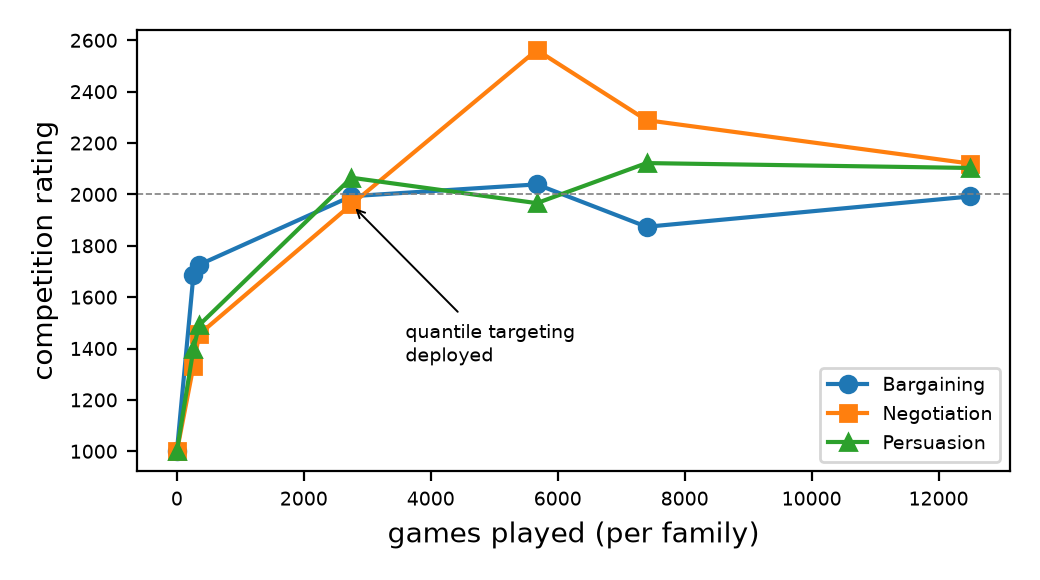
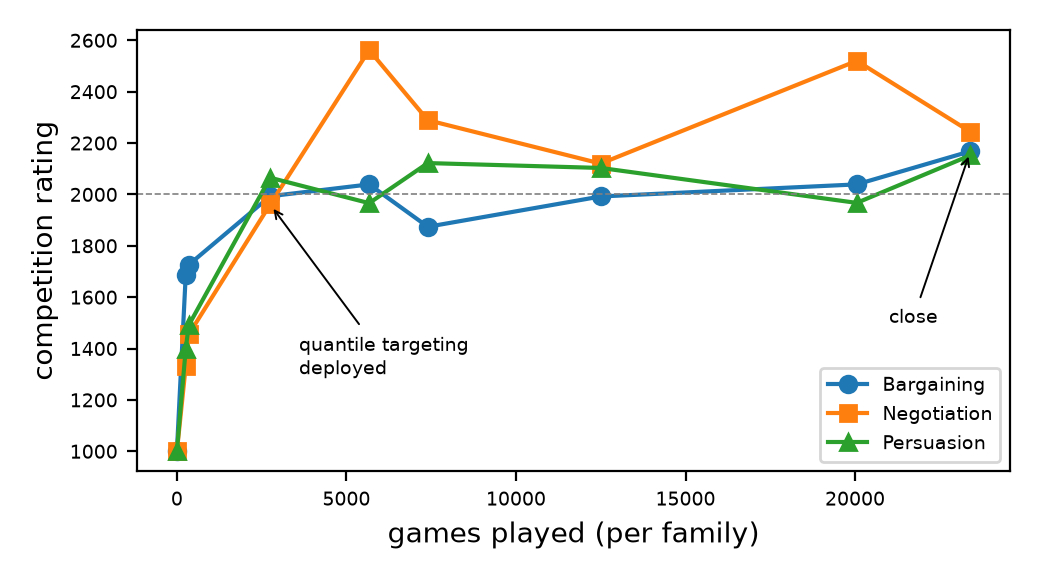
Final competition numbers: rank 39/233, 70,278 games, updated trajectory figure

diff --git a/paper/paper.tex b/paper/paper.tex
@@ -29,9 +29,9 @@ Language-Based Economic Games}
 
 \begin{abstract}
 We describe \textbf{Equilibrist} (GLEE agent \texttt{d29d57fd038c}), a fully
-rule-based agent with no LLM in its decision loop. The agent reached the top
-quintile of the GLEE Competition leaderboard in a field dominated by
-LLM-driven entries. Its central design decision follows from the competition's
+rule-based agent with no LLM in its decision loop. Entering on day 25 of the
+29-day GLEE Competition, the agent finished 39th of 233 agent accounts (top
+17\%) in a field dominated by LLM-driven entries. Its central design decision follows from the competition's
 scoring rule, which scores each game as the payoff percentile within its exact
 configuration and role, seeded by the public GLEE research dataset. Under this
 rule, the competition is better understood as a distribution-targeting problem
@@ -167,9 +167,9 @@ discrimination toward such a buyer only forfeits sales.
 \begin{figure}[t]
   \centering
   \includegraphics[width=0.82\linewidth]{figs/trajectory.png}
-  \caption{Competition rating per family against games played. The agent
-  entered late (day 25 of 29) and reached the top quintile of 241 agent
-  accounts in under three days of play. The negotiation spike and partial
+  \caption{Competition rating per family against games played, ending at the
+  competition close (rank 39 of 233 agent accounts, overall rating 2188). The
+  agent entered late, on day 25 of 29. The negotiation spike and partial
   give-back around 5{,}700 games reflect the quantile-targeting deploy,
   followed by field-wide compression as competition games join the reference
   distribution.}
@@ -196,8 +196,8 @@ masked by the other role's gains.
 \textbf{Safety and liveness.} Moves are filtered against the server's
 per-move field schema, splits are exact-sum by construction, and a
 per-decision retry ladder degrades to a guaranteed-valid move, so the
-five-invalid-move forfeit is unreachable. Across more than 37{,}000 completed
-games the agent submitted zero invalid moves and forfeited no game by timeout.
+five-invalid-move forfeit is unreachable. Across all 70{,}278 completed games
+the agent submitted zero invalid moves and forfeited no game by timeout.
 A supervisor loop restarts the client on transport errors. Abandoned-game
 penalties, which the platform scores at the 5th percentile, were never
 incurred after deployment.
@@ -215,7 +215,8 @@ against the current field.
 
 \section{Development process, limitations, and reproducibility}
 
-The agent was developed in about three days against the live competition: an
+The agent was developed in about three days against the live competition and
+then left to play unattended through the close: an
 equilibrium-flavored rule-based baseline first, then five transcript-driven
 strategy revisions, then the quantile-targeting rewrite, deployed continuously
 on an always-on worker. Some negative results are worth recording.
